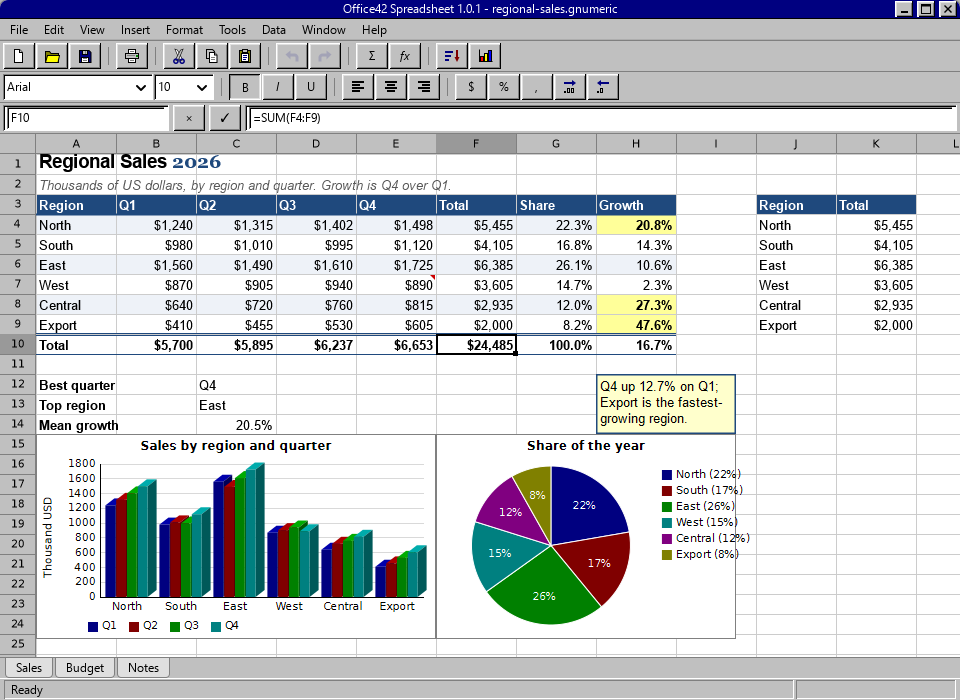
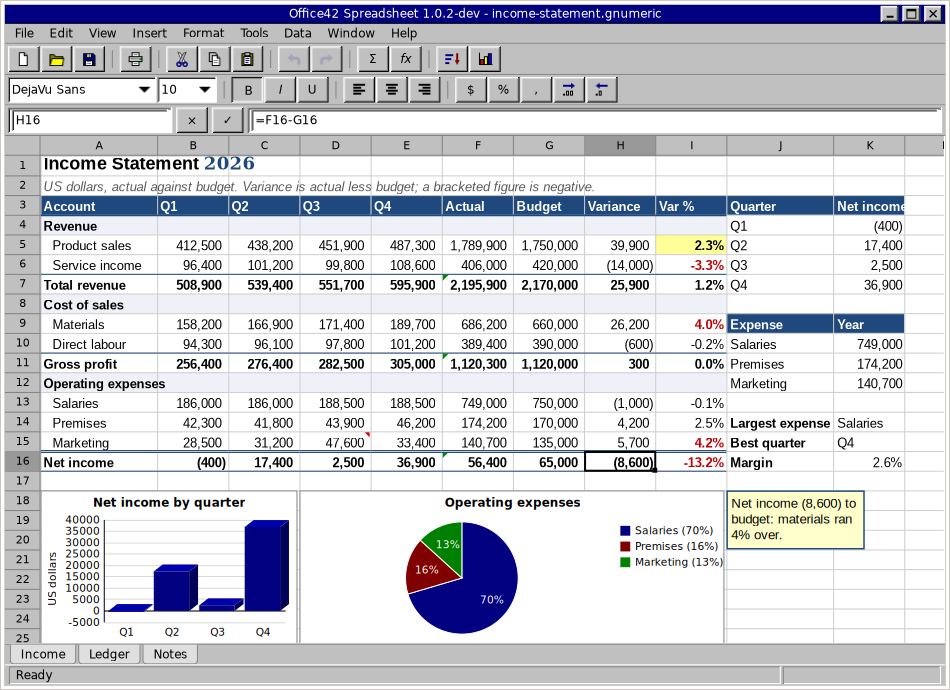
The README screenshot taken again, of an income statement
The book on the picture is now an accounting one: an income statement
for a year, actual against budget by quarter, in the Accounting number
format with its bracketed negatives and padded columns, which the old
regional-sales book did not show.  The rest of what the picture is for
is still there: a title in two fonts, a styled heading row, SUM and
INDEX/MATCH, conditional formats on the variances, a note, a text
box, frozen panes, a three-dimensional column chart (with a negative
quarter below the axis), a pie chart with labels and three tabs.  The
numbers are made up.

samples/income-statement.txt makes the book and says how the picture
is taken; the regional-sales script and book it replaces are gone.
Taken with office42 --screenshot under xvfb-run on this machine, and
the book checked through office42-calc's dump first.

Claude-Session: https://claude.ai/code/session_01J9LKf3sEaAP3T35FpfVfmf

diff --git a/README.md b/README.md
@@ -14,7 +14,7 @@ The site is [office42.net](https://office42.net/).
 [![macOS](https://github.com/office-42/office42/actions/workflows/macos.yml/badge.svg)](https://github.com/office-42/office42/actions/workflows/macos.yml)
 [![Windows](https://github.com/office-42/office42/actions/workflows/windows.yml/badge.svg)](https://github.com/office-42/office42/actions/workflows/windows.yml)
 
-![Office42 Spreadsheet showing a regional sales sheet: a title set in two fonts in one cell, a styled heading row, currency and percent formats, a total row with SUM and INDEX/MATCH formulas, conditional formats on the growth column, a note, a text box, frozen panes, a three-dimensional column chart, a pie chart with labels, and three sheet tabs](docs/images/screenshot.png)
+![Office42 Spreadsheet showing an income statement: a title set in two fonts in one cell, a styled heading row, revenue, cost of sales and operating expenses in the Accounting number format with negatives in brackets, actual against budget with SUM and INDEX/MATCH formulas, conditional formats on the variance column, a note, a text box, frozen panes, a three-dimensional column chart of net income by quarter, a pie chart of expenses with labels, and three sheet tabs](docs/images/screenshot.png)
 
 [docs/GUIDE.md](docs/GUIDE.md) is the user guide: every
 menu, every dialog, the number-format codes, the keyboard and the terminal

diff --git a/samples/README.md b/samples/README.md
@@ -45,6 +45,6 @@ Everything else agrees to the last digit, currency and percent cells
 included, and the formats book shows what it should down to the
 `[$kr-414]` currency LibreOffice put on three of the money cells.
 
-`regional-sales.txt` is the office42-calc script that makes the book on
-the README's screenshot, and `regional-sales.gnumeric` is that book;
+`income-statement.txt` is the office42-calc script that makes the book on
+the README's screenshot, and `income-statement.gnumeric` is that book;
 the comment at the top of the script says how the picture is taken.
